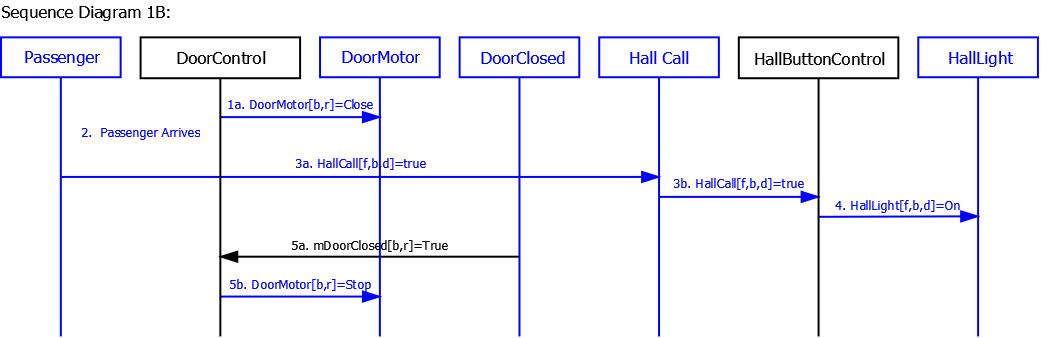
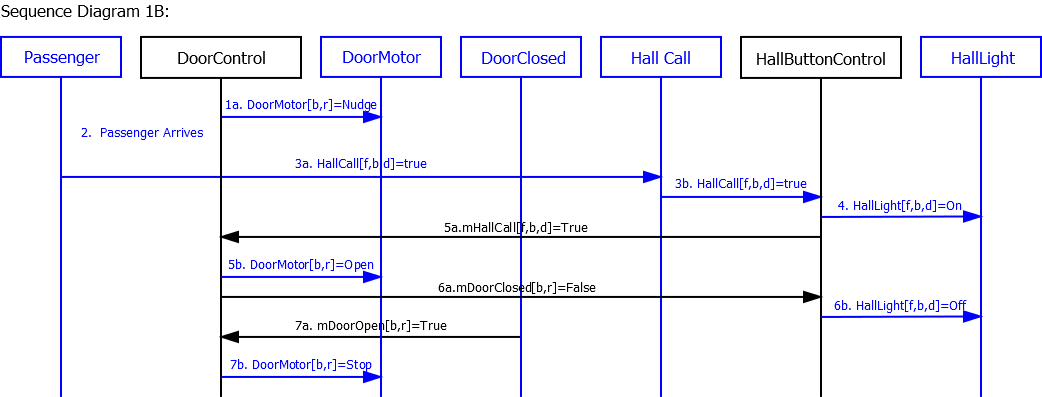
Changed 1b and others - Harsha

Changed region(s): [[0.0, 0.0888, 1.0, 1.0], [0.0, 0.0, 0.1843, 0.0592]]

diff --git a/portfolio_template/scen_sd/scen_sd.html b/portfolio_template/scen_sd/scen_sd.html
@@ -33,6 +33,7 @@
 
 
 
+
         Sally Stevenson (ststeven)<br>
         &nbsp;&nbsp;&nbsp; &nbsp;&nbsp;&nbsp; &nbsp;&nbsp;&nbsp;
         &nbsp;&nbsp;&nbsp;&nbsp;&nbsp; Sri Harsha Koppaka (skoppaka)<br>
@@ -127,8 +128,10 @@
           closed, but after doors are too fully closed for passenger to
           enter. </li>
         <li>Hall button lights up. </li>
-        <li>Doors complete closing. <i>(You might want to change this
-            step; it's OK to do that for this project assignment.)</i> </li>
+        <li>Doors start reopening.</li>
+        <li>Hall Light is unlit.<br>
+        </li>
+        <li>Doors open completely.&nbsp; </li>
       </ol>
       <h3> Post-Conditions: </h3>
       <ul type="disc">
@@ -567,8 +570,8 @@
         </li>
       </ul>
       <h3> Sequence Diagram: </h3>
-      <a href="sd9a.png"><img alt="9a" src="sd9a.png" border="0"
-          height="311" width="786"></a><br>
+      <a href="sd9a.png"><img alt="9a" src="sd9a.png" height="311"
+          border="0" width="786"></a><br>
       <h3> </h3>
     </div>
   </body>
